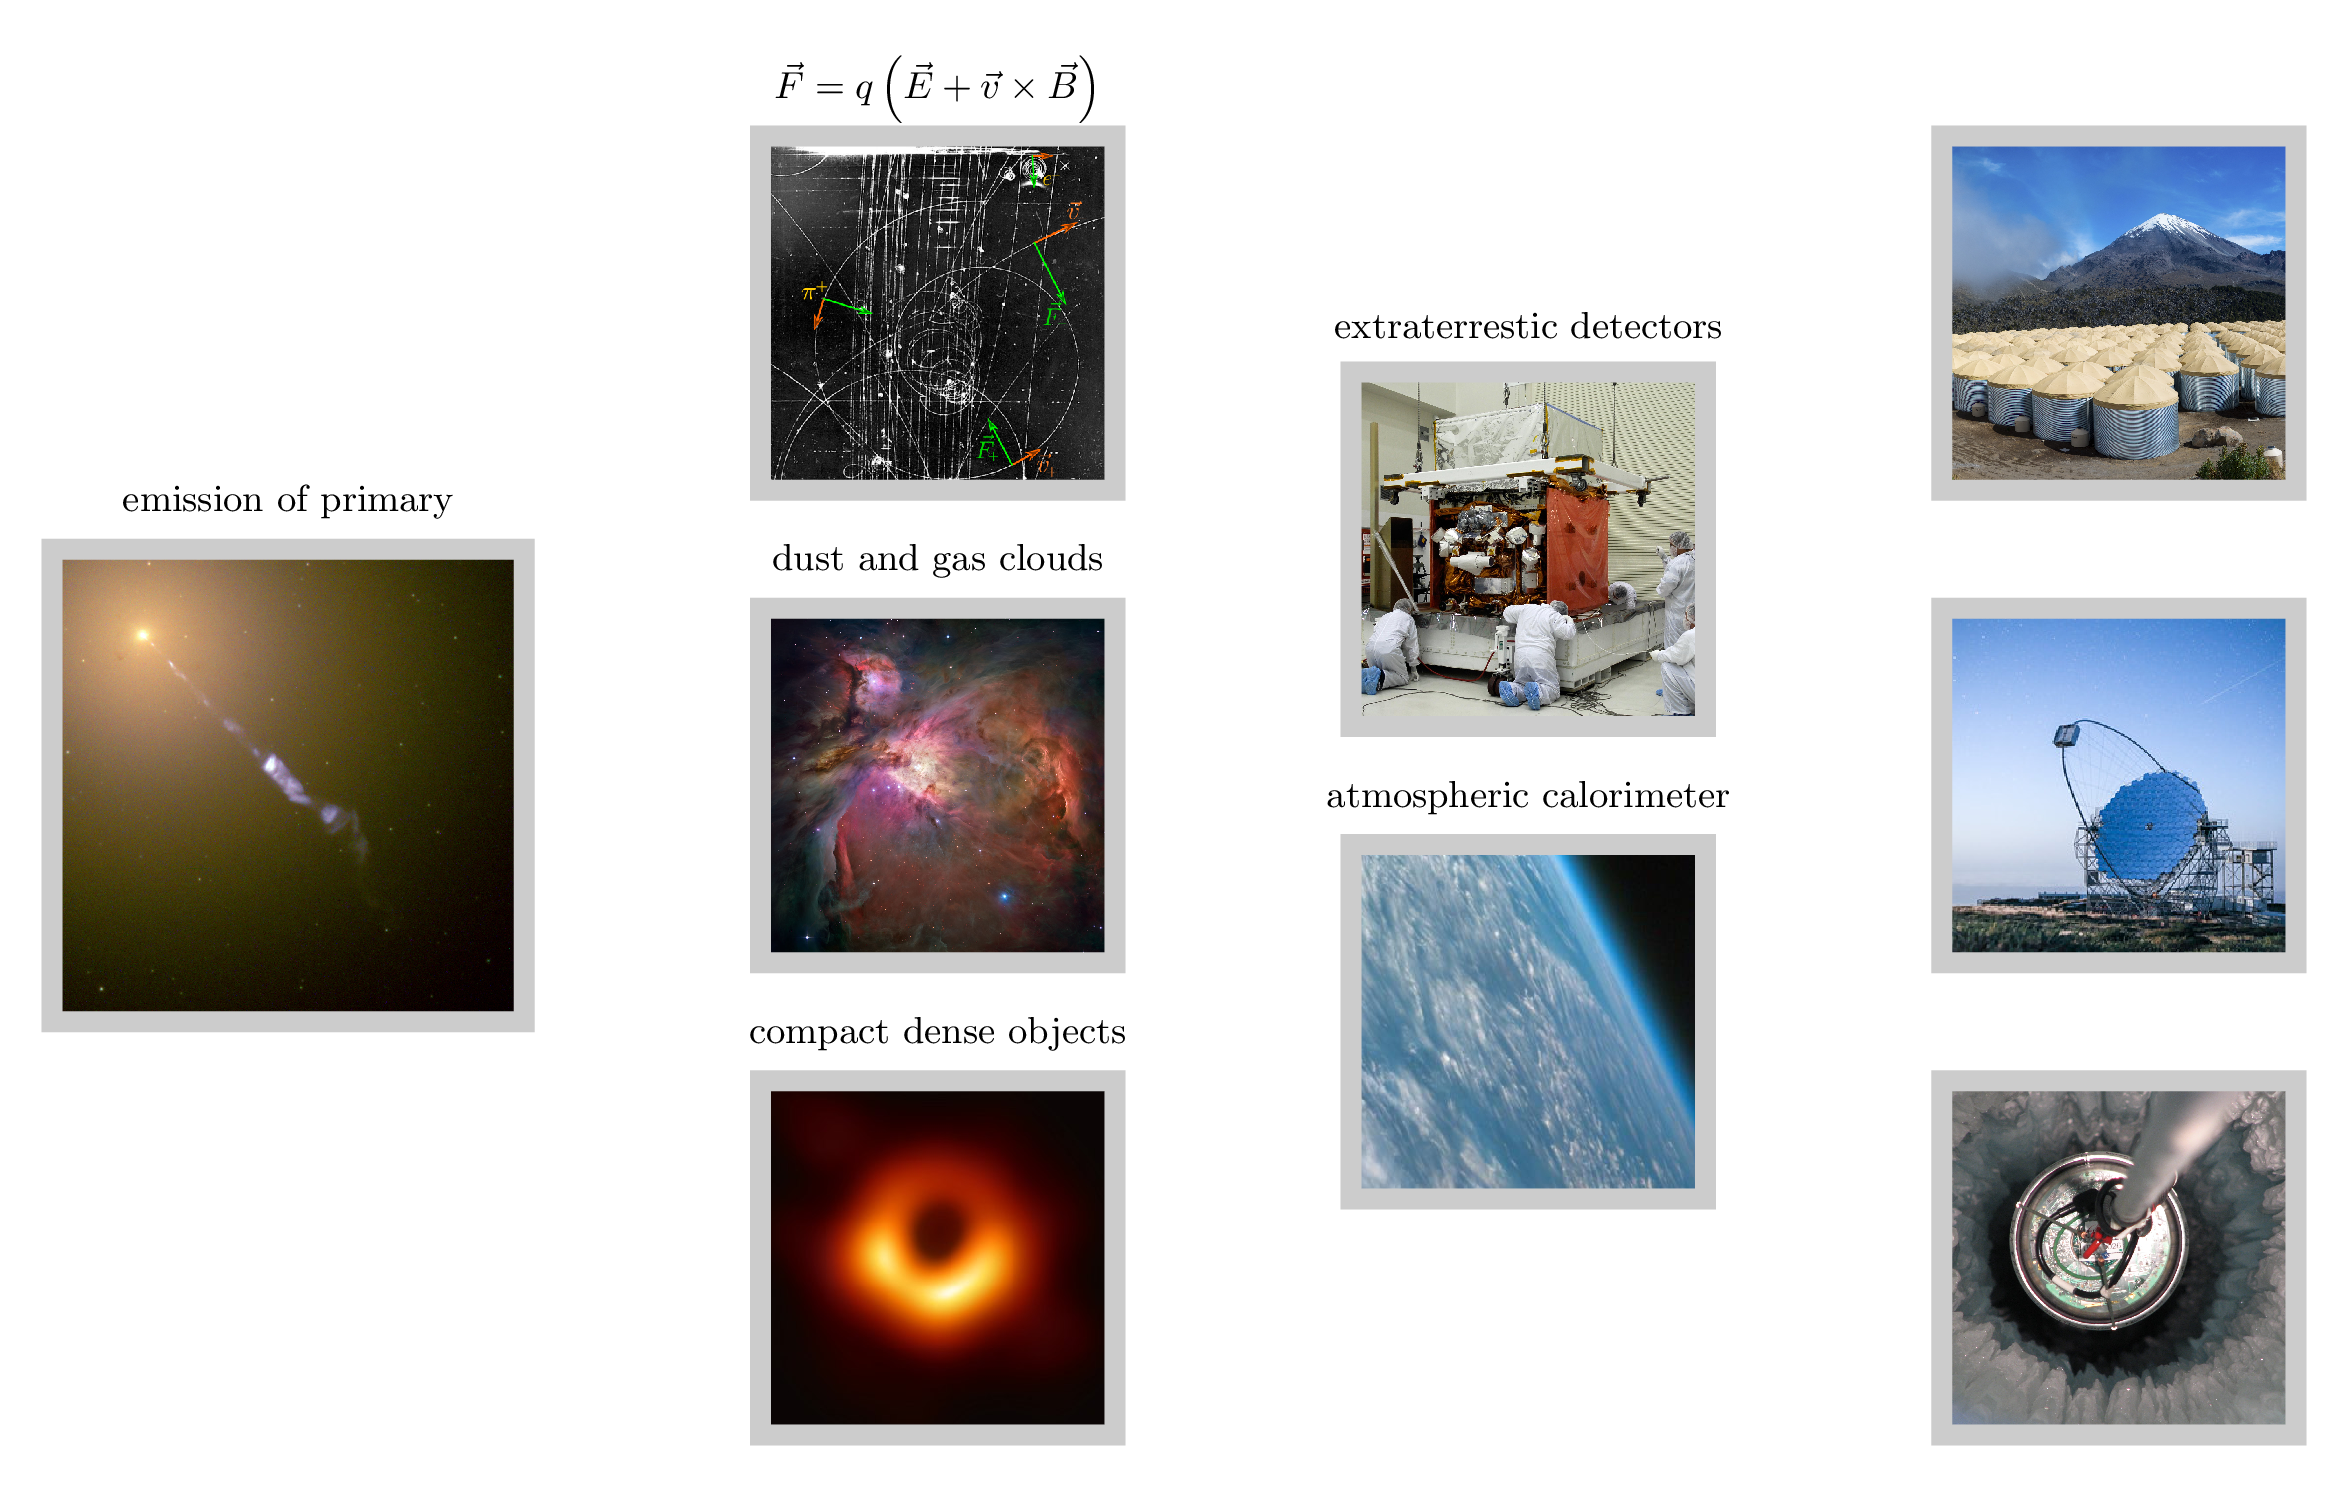
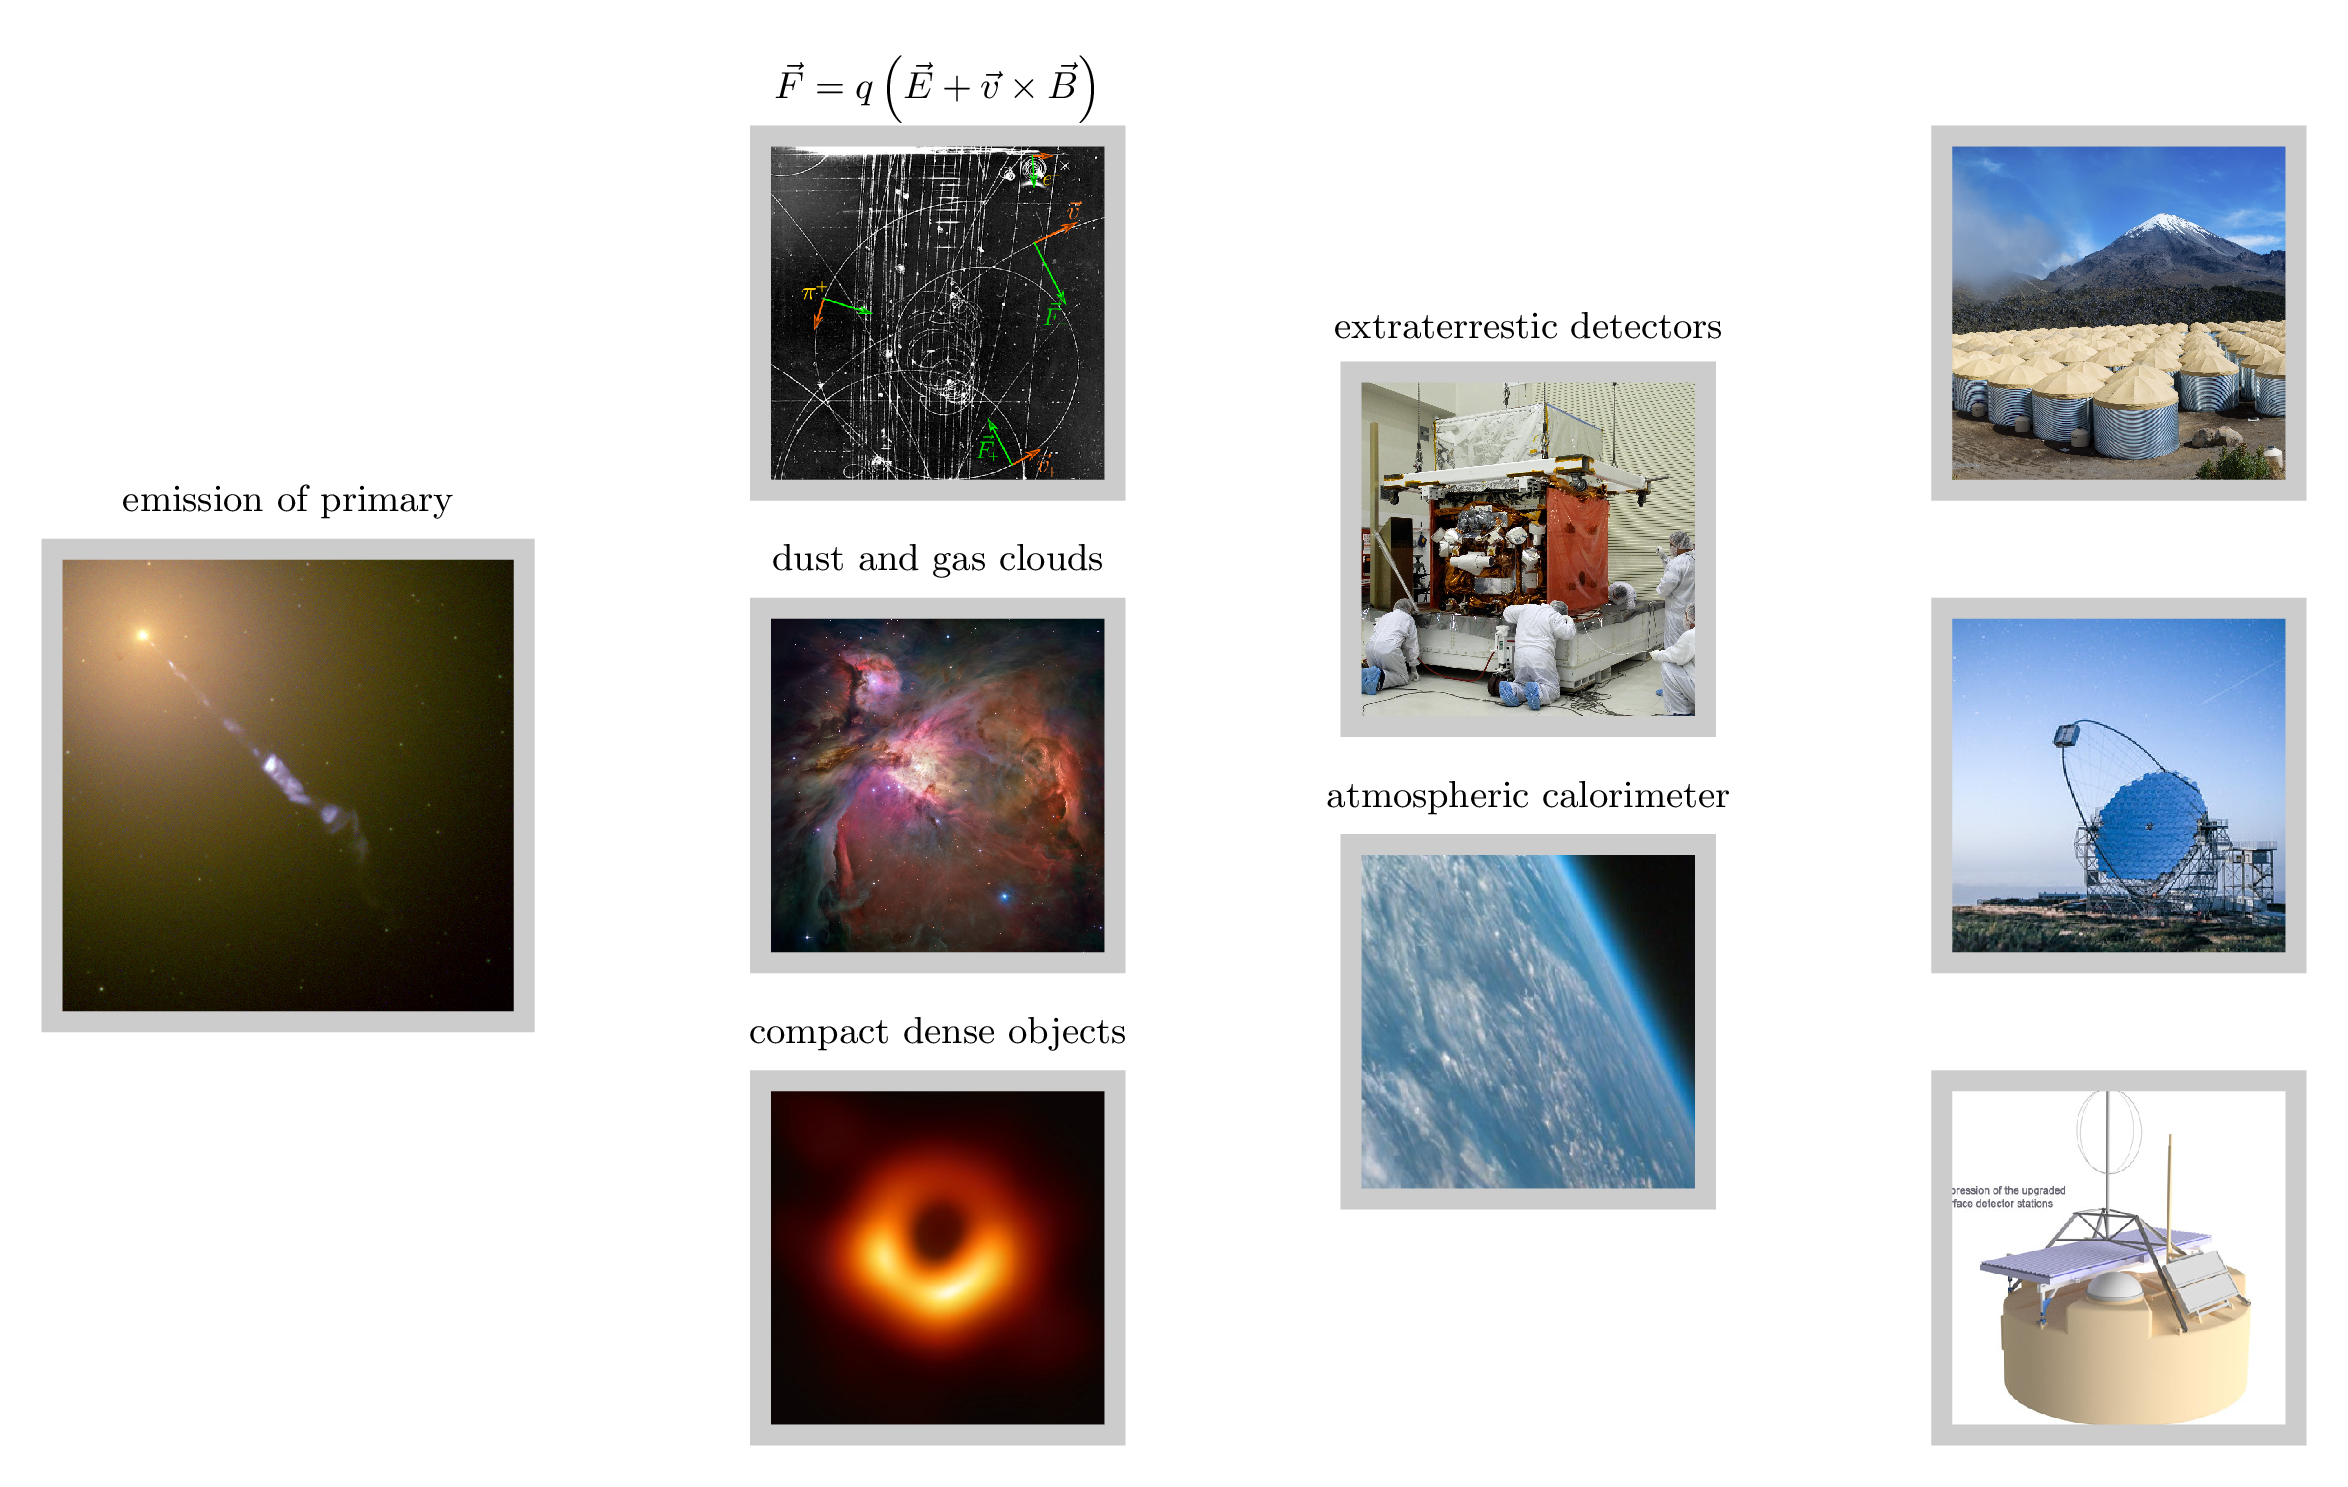
last fixes

Changed region(s): [[0.8083, 0.7115, 0.9949, 0.959]]

diff --git a/2021/05-master_presentation_23_06/index.html b/2021/05-master_presentation_23_06/index.html
@@ -611,7 +611,8 @@
                                 </p>
 
                                 \begin{equation}
-                                p_\mathrm{acc} ( E, E_\mathrm{i}) = \frac{\lambda(E)}{\lambda(E_i)}
+                                p_\mathrm{acc} (x, \Delta x) =
+                                \frac{\lambda(x)}{\lambda(x + \Delta x)}
                                 \end{equation}
 
                                 <p>

diff --git a/2021/05-master_presentation_23_06/LaTeX/measureing_process.tex b/2021/05-master_presentation_23_06/LaTeX/measureing_process.tex
@@ -39,7 +39,7 @@
         {\includegraphics[height=3cm]{build/Cta.jpg}};} ] (14,1.5) rectangle (17,-1.5);
 
     \draw [draw=black!20, line width=5pt, path picture={\node (source) at (path picture bounding box.center)
-        {\includegraphics[height=3cm]{build/Dom.jpg}};} ] (14,-2.5) rectangle (17,-5.5);
+        {\includegraphics[height=2.9cm]{build/auger_prime.jpg}};} ] (14,-2.5) rectangle (17,-5.5);
 
 \end{tikzpicture}
 \end{document}
